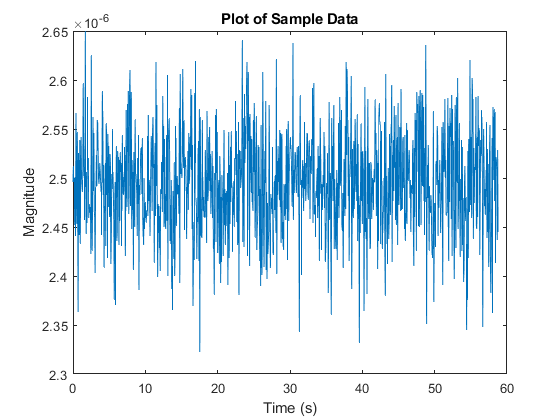
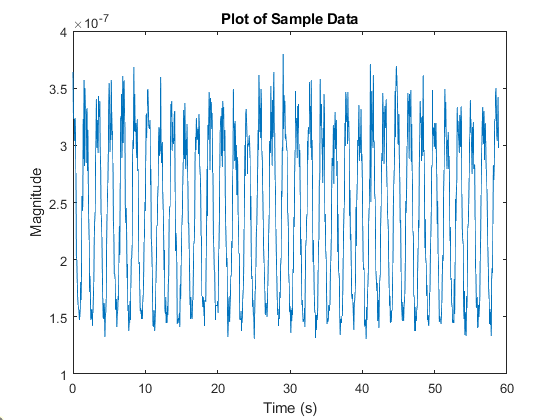
Modifying respiration pages

diff --git a/respiration-rate-algorithm/index.html b/respiration-rate-algorithm/index.html
@@ -37,7 +37,7 @@
             for generating a solution.
             <br>
             <br>
-            The data provided was infant breathing signals from a non-contact vitals montioring system using Doppler-based radio-frequency waves. 
+            The data provided was infant breathing signals from a non-contact vitals monitoring system using Doppler-based radio-frequency waves. 
             Several papers have suggested a similar kind of system, which I will leave linked here 
             [<a href="https://www.ncbi.nlm.nih.gov/pmc/articles/PMC5713025/" target="_blank">Hall et. al</a>, 
             <a href="https://pubmed.ncbi.nlm.nih.gov/10999382/" target="_blank">Matthews et. al</a>]. 
@@ -72,7 +72,12 @@
         </div>
     </div>
 
-    <h1 class="headings">Pre-processing - Spectral Analysis</h1>
+    <h1 class="headings">Pre-processing - Strategy</h1>
+    <h5 class="headings">
+        I decided to use two different methods to smooth the data, one frequency-domain analysis method and one time-domain analysis method. Both methods are detailed below.
+    </h5>
+    <br>
+    <h2 class="headings">Frequency Domain Analysis</h2>
     <div class="flexbox-container">
         <div class="picture">
             <img src="../images/respiration-spectral-analysis.PNG" alt="Respiration Spectral Analysis">
@@ -89,110 +94,91 @@
                 The resolution of the graph on the left is not great, but it is likely this is the dominant frequency component.
                 Thus, I designed a low-pass filter at a normalized cut-off frequency of 0.1 pi rads/sample to filter out any higher frequency components
                 that may be contaminating the signal.
+                <br>
+                <br>
+                I used a 5th order Butterworth filter at a 0.1 normalized cutoff frequency to reduce noise. The Butterworth filter is the most ideal filter
+                to use in this case as it has a relatively low amount of attenuation in the passband as opposed to other traditional linear filters (more on that 
+                <a href="https://basedados.aeroubi.pt/pluginfile.php/610/mod_resource/content/0/ClassicFilters_BTTWRTH_BSSL_CHBCHV_LPTC.pdf" target="_blank">here</a>).
             </h5>
         </div>
     </div>
-
-    <h1 class="headings">Pre-processing - Filtering</h1>
+    <h2 class="headings">Time Domain Analysis</h2>
     <div class="flexbox-container">
         <div class="paragraph">
             <h5>
-                I used a 10th order Butterworth filter at a 0.1 normalized cutoff frequency to reduce noise. The Butterworth filter is the most ideal filter
-                to use in this case as it has a relatively low amount of attenuation in the passband as opposed to other traditional linear filters (more on that 
-                <a href="https://basedados.aeroubi.pt/pluginfile.php/610/mod_resource/content/0/ClassicFilters_BTTWRTH_BSSL_CHBCHV_LPTC.pdf" target="_blank">here</a>).
-                <br>
-                <br>
-                The plot of the right shows the raw respiration signal on the top and the filtered respiration signal on the bottom; significantly better!
+            For the time domain analysis, I used a moving average filter with a 7-point centered moving window that was used iteratively over the length of the signal three times. 
+            While the data presented does not necessarily need this many iterations as it is relatively smooth over one pass, noisier data-sets that were provided,
+            but not presented, required this level of smoothing. 
+            <br>
+            <br>
+            The result of both filtering methods is presented on the right with reasonable levels of agreement. The low-pass filtered data is obviously lagged slightly in time
+            due to filter phase shifts.
             </h5>
         </div>
         <div class="picture">
-            <img src="../images/respiration-filtered-signal.png" alt="Respiration Rate Filtered Signal">
+            <img src="../images/respiration-filtered-signal.png" alt="Respiration Filtered Signal">
         </div>
     </div>
 
-    <h1 class="headings">Algorithm Development</h1>
-    <div class="summary">
-        <h5>
-            I employed two different algorithms to calculate the respiration rate of the filtered signal:
-            <br>
-            <br>
-            1. A simple peak detection algorithm.
-            <br>
-            2. A moving average filter followed by the same peak detection algorithm. 
-            <br>
-            <br>
-            Pros and cons of each method are discussed below. These algorithms are not intended to be production-ready 
-            or particularly robust, but simply a starting point towards refinement of a more advanced algorithm
-            following several trial-validation cycles. The figure below shows the output of both algorithms on a test data-set.
-            Specific accuracy of both algorithms could not be verified as true breathing rate figures were not provided. However, these 
-            rates were accurate based on review with the team.
-        </h5>
+    <h1 class="headings">Algorithm Development - Mean Respiration Rate</h1>
+    <div class="flexbox-container">
+        <div class="picture">
+            <img src="../images/respiration-rate-output.PNG" alt="Respiration Rate Output">
+        </div>
+        <div class="paragraph">
+            <h5>
+                I used a simple peak detection algorithm to calculate the mean respiratory rate over the length of the sampled signal. The algorithm iterates over the input signal
+                 point by point and compares the previous sample and the next sample to the current sample; if they are both less than the current sample, a peak, or breath, is recorded. 
+                <br>
+                <br>
+                It is important to note that the algorithm is not intended to be production-ready or particularly robust, but simply a starting point towards refinement of a more advanced algorithm 
+                following several trial-validation cycles. 
+                <br>
+                <br>
+                The figure to the left shows the output of both algorithms on a test data-set. While no ground-truth was provided, it seems that both algorithms were right on the money 
+                in determining the respiration rate, with the low-pass filter registering an extra breath at the beginning of the data-set. This can be accounted for by 
+                throwing away the first set of sample data due to filter delay. 
+            </h5>
+        </div>
     </div>
-    <div class="picture">
-        <img src="../images/respiration-rate-output.PNG" alt="Respiration Rate Output">    
-    </div>
+
+    <h1 class="headings">Algorithm Development - Instantaneous Respiration Rate</h1>
     <div class="flexbox-container">
         <div class="paragraph">
-            <h2>Algorithm 1 - Simple Peak Detection</h2>
-            <br>
-            <br>
             <h5>
-                The peak detection algorithm used a relatively simple method to detect peaks in the waveform. 
-                The algorithm traverses each point in the given dataset and compares the previous data point and the next data
-                point to the current. If the current data point is greater than both neighboring data points, the current data point
-                is identified as a peak. 
+                The instantaneous respiration rate was calculated by determining the time between detected breaths when traversing through the input signal. 60 divided by this time period
+                then gives the instantaneous respiration rate. A graph of the calculated instantaneous rates is shown to the right. Again, the graphs are fairly agreeable, ignoring the 
+                start-up delay in the low-pass filter graph. 
                 <br>
                 <br>
-                After traversing the entire data-set, the total peak count is then divided by the time frame to calculate the overall respiration
-                rate.
-                <br>
-                <br>
-                Considerations: 
-                <br>
-                <br>
-                - Not particularly robust. Will detect small peaks and multiple peaks within a single peak. However,
-                this may be actually a positive considering infantile breathing is very rapid and can be very weak.
-                <br>
-                <br>
-                - Efficiency can possibly be improved, especially in low power embedded settings. The current algorithm
-                will work in linear time for N inputs. 
-                <br>
-                <br>
-                - A baseline can be used as a threshold of comparsion (such as the mean of the signal) to ignore
-                small detected peaks. Again, this must be concerned in relation to the application. 
+                A point of contention during the design of this algorithm was whether or not to keep the calculated instantaneous rate discrete, or to create a continuous time signal 
+                by interpolating between data points and filling in the gaps. Ultimately, it was decided to keep it discrete as the goal of the algorithm was to provide a number that would
+                be presented on a UI that is sampled at a fixed rate, presumably at a rate similar to the respiration rate. 
             </h5>
         </div>
-        <div class="paragraph">
-            <h2>Algorithm 2 - Moving Average Filter</h2>
-            <br>
-            <br>
-            <h5>
-                The moving average filter uses the same methodology as algorithm 1 with one key difference; prior to peak determination, 
-                a moving average filter is applied to the data-set to smooth transients.
-                <br>
-                <br>
-                The moving average filter helps with removing noisy/transient data, such as multiple peaks occuring with a larger
-                peak.
-                <br>
-                <br>
-                <br>
-                Considerations: 
-                <br>
-                <br>
-                - A detriment when lower quality/weaker signals are recorded.
-                <br>
-                <br>
-                - Efficiency is worse off, since the algorithm must traverse the entire vector first to calculate the moving average
-                and then again to calculate the peaks. This will work in exponential time (N^2 for N inputs)
-                <br>
-                <br>
-                <br>
-                <br>
-                <br>
-                <br>
-                <br>
-            </h5>
+        <div class="picture">
+            <img src="../images/respiration-rate-graph.png" alt="Respiration Rate Graph">
         </div>
+    </div>
+
+    <h1 class="headings">Discussion and Considerations</h1>
+    <div class="summary">
+        <h5>
+            Obviously, this algorithm is not the most robust and several improvements/considerations can be made with respect to usage in the product as well as accuracy while testing.
+            Several improvements and considerations that come to mind are, for example: 
+            <br>
+            <br>
+            1. Using the mean of the signal as a threshold baseline to detect a peak, rather comparing data neighbors. This would help improve algorithm efficiency/spatial complexity, but may
+            cause issues when the detected signal is extremely noisy or weak. 
+            <br>
+            <br>
+            2. Taking the first derivative of the filtered signal and detecting zero crossings, which may also help improve algorithm efficiency by sorting the data and only selecting timestamps
+            where the value is zero.
+            <br>
+            <br>
+            3. As discussed previously, interpolating between calculated instantaneous respiratory rates to produce a more continuous signal if this graph is something that is provided 
+            to customers and is seen as more beneficial. 
+        </h5>
     </div>
 </body>
 
